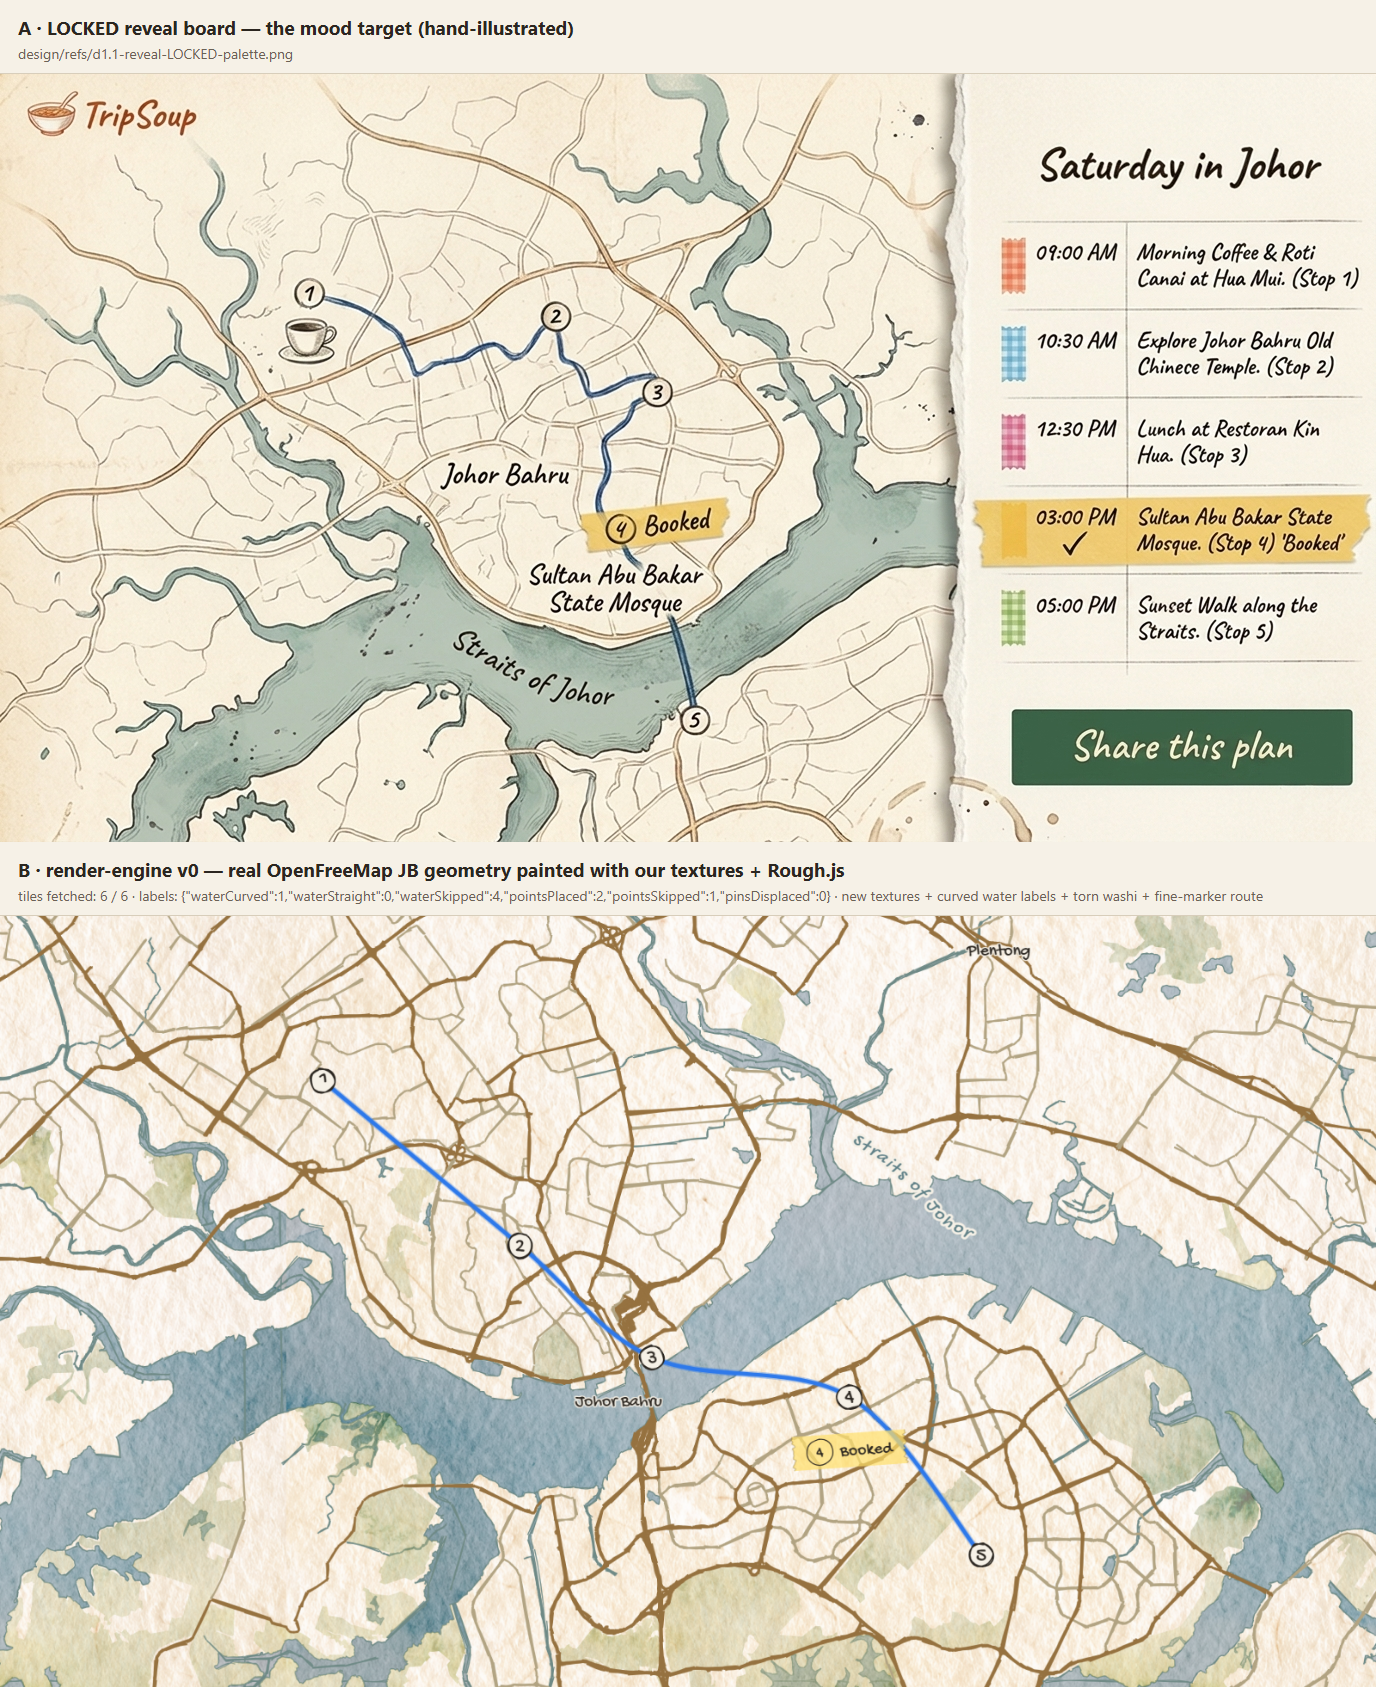
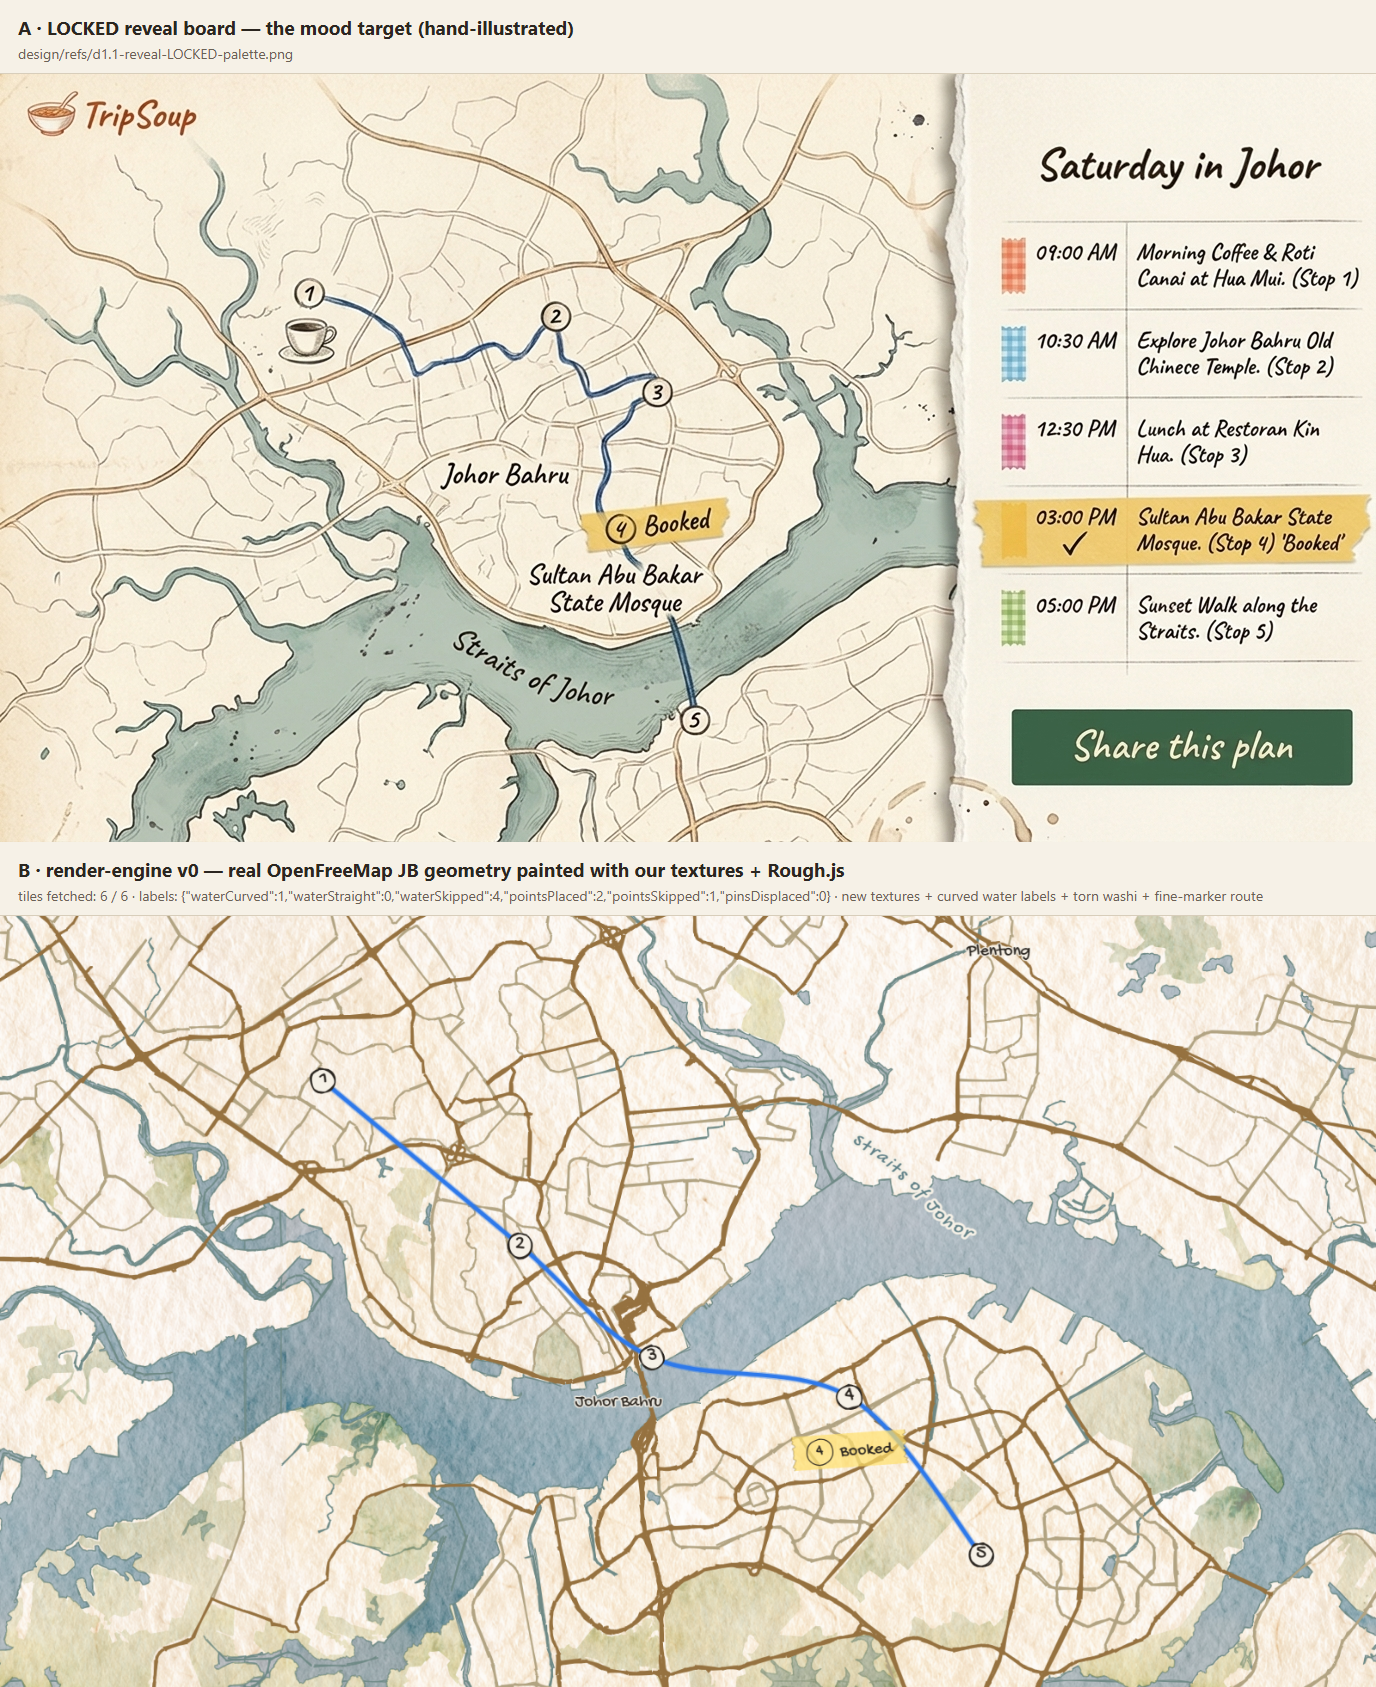
Post-launch polish: testing timer + reveal art iteration
Chris testing the live product with real AWS/Anthropic keys. Two threads,
all gates green (tsc · jest 119/119 · Playwright 26/26 · build):

Testing timer (his ask — "set a timer so I can monitor during testing"):
- usePipeline stamps ts-cook-t0 at submit
- LoadingView counts up live ("cooking · 2.3s")
- RevealMap shows "ready in X.Xs" + logs the full paste→map total

Reveal art (his three notes, every direction his AskUserQuestion call):
- Route floated off-road → denser roads: minor/service grid painted UNDER
  the arterials so the GrabMaps pen sits on drawn streets (board-faithful)
- Sidebar tape didn't read as tape → gingham weave + translucency +
  paper-lift + portrait tape-strip handles; booked stays solid yellow
- Scale not harmonious → ROOT CAUSE: globals.css `main{max-width:880}` (a
  legacy narrow-page rule) capped the reveal main, so the 1360 board never
  had room. Fixed with maxWidth:none on the reveal main. Plus grid 65/35
  map-dominant, width:100% (fr tracks were shrink-wrapping to the canvas),
  align-items:stretch, computeView aspect floor 0.72, Share pinned to foot.

Refs: design/refs/d2.3-map-engine-vs-board.png refreshed.
Deferred: fold AWS "verified live" into routeGeometry.ts + LIVE-CHECKLIST §8.

Claude-Session: https://claude.ai/code/session_01FzM6Qgs9SU9u1m1GaUgJuR

diff --git a/src/ui/reveal/RevealMap.tsx b/src/ui/reveal/RevealMap.tsx
@@ -80,6 +80,20 @@ function computeView(stops: RevealStop[]) {
   const padY = (N - S) * 0.22; // extra vertical room: the washi tag hangs below its pin
   const VIEW_BBOX = { W: W - padX, E: E + padX, N: N + padY, S: S - padY };
 
+  // Aspect floor (2026-07-07): a compact trip crops letterbox-short, which
+  // reads as a tiny map beside a tall sidebar. Grow the N/S window until the
+  // crop is at least this tall relative to its width, so the map fills the
+  // board column (Chris's "scale not harmonious" note). Near the equator the
+  // lat/lon ratio ≈ the projected aspect, so we expand in plain degrees.
+  const TARGET_ASPECT = 0.72; // height / width
+  const lonW = VIEW_BBOX.E - VIEW_BBOX.W;
+  const latH = VIEW_BBOX.N - VIEW_BBOX.S;
+  if (latH / lonW < TARGET_ASPECT) {
+    const grow = (TARGET_ASPECT * lonW - latH) / 2;
+    VIEW_BBOX.N += grow;
+    VIEW_BBOX.S -= grow;
+  }
+
   const lonSpan = VIEW_BBOX.E - VIEW_BBOX.W;
   // cropWpx = lonSpan/360 * 2^Z * TILEPX → solve for Z near the 1150px target
   const Z = Math.max(9, Math.min(14, Math.round(Math.log2((1150 * 360) / (lonSpan * 1024)))));
@@ -133,6 +147,7 @@ export function RevealMap({
   const [cloudsGone, setCloudsGone] = useState(false);
   const [muted, setMuted] = useState(false);
   const [reducedMotion, setReducedMotion] = useState(false);
+  const [cookMs, setCookMs] = useState<number | null>(null); // testing timer: full paste→map total
 
   const view = useMemo(() => computeView(stops), [stops]);
   const aspect = view.aspect;
@@ -141,6 +156,23 @@ export function RevealMap({
   // Bound the module-level decode cache to this reveal's lifetime (review
   // finding: it otherwise accumulates per-view geometry across navigations).
   useEffect(() => () => MapRenderCore.clearDecodeCache(), []);
+
+  // Testing timer: on first ready, report the full paste→map total that
+  // usePipeline stamped at submit. Only shows when this reveal came from a
+  // fresh cook (a direct /trip/[id] load has no stamp → no badge).
+  useEffect(() => {
+    if (phase !== "ready" || cookMs !== null) return;
+    try {
+      const s = Number(sessionStorage.getItem("ts-cook-t0"));
+      if (s) {
+        const total = (Date.now() - s) / 1000;
+        setCookMs(total);
+        // eslint-disable-next-line no-console
+        console.log(`[tripsoup] paste → map ready in ${total.toFixed(2)}s`);
+        sessionStorage.removeItem("ts-cook-t0"); // a reload shouldn't reshow a stale number
+      }
+    } catch { /* storage off */ }
+  }, [phase, cookMs]);
 
   // §2.10 sound rules: default ON, persisted, never before the first gesture.
   useEffect(() => {
@@ -563,6 +595,26 @@ export function RevealMap({
               <div style={cloudPuff("-12%", "8%", "68%")} />
               <div style={cloudPuff("28%", "-14%", "76%")} />
               <div style={cloudPuff("58%", "16%", "70%")} />
+            </div>
+          )}
+          {phase === "ready" && cookMs != null && (
+            <div
+              data-testid="reveal-timer"
+              style={{
+                position: "absolute",
+                top: 10,
+                left: 10,
+                fontFamily: "var(--font-display)",
+                fontSize: 13,
+                color: "var(--ink-soft)",
+                background: "var(--paper)",
+                border: "1px solid var(--ink-soft)",
+                borderRadius: 4,
+                padding: "2px 8px",
+                opacity: 0.9,
+              }}
+            >
+              ready in {cookMs.toFixed(1)}s
             </div>
           )}
           {phase === "ready" && (

diff --git a/src/ui/reveal/reveal.css b/src/ui/reveal/reveal.css
@@ -23,16 +23,22 @@
 .reveal-layout {
   display: grid;
   grid-template-columns: 1fr;
-  gap: 24px;
-  align-items: start;
+  gap: 26px;
+  align-items: stretch; /* map + sidebar form one board of equal height */
+  width: 100%; /* make the grid width DEFINITE — without this the fr tracks
+   * resolve against the canvas's intrinsic pixel width and the whole board
+   * shrink-wraps to ~830px instead of filling the 1360 frame. */
 }
 @media (min-width: 900px) {
   .reveal-layout {
-    grid-template-columns: 62fr 38fr;
+    grid-template-columns: 65fr 35fr; /* map dominant, like the board */
   }
 }
 .reveal-layout__map {
-  min-width: 0; /* grid item shrink guard so the canvas can size down */
+  min-width: 0; /* grid item shrink guard: without this the canvas's intrinsic
+   * pixel width wins the grid track sizing and the map renders small. Keep it
+   * a plain block (NOT flex — a flex parent re-introduces the shrink-to-canvas
+   * bug) so the width:100% map fills its 65% column. */
 }
 
 /* JournalSidebar ---------------------------------------------------------
@@ -43,6 +49,8 @@
  */
 .reveal-sidebar {
   position: relative;
+  display: flex;
+  flex-direction: column;
   background: var(--paper-shade);
   box-shadow: var(--shadow-paper-lift);
   min-width: 0;
@@ -71,9 +79,16 @@
 }
 .reveal-sidebar__scroll {
   position: relative;
-  max-height: 80vh;
+  flex: 1 1 auto;
+  min-height: 0; /* let the inner list scroll instead of stretching the board */
   overflow-y: auto;
+  display: flex;
+  flex-direction: column;
   padding: 22px 20px 22px 28px;
+}
+/* push the Share button to the foot of the torn page (board composition) */
+.reveal-share {
+  margin-top: auto;
 }
 .reveal-sidebar__heading {
   font-family: var(--font-display);
@@ -100,9 +115,18 @@
 }
 .reveal-row__handle {
   flex: 0 0 auto;
+  align-self: center;
   min-width: 30px;
   text-align: center;
   white-space: nowrap;
+}
+/* Empty (non-booked) handles are portrait tape strips, like the board's
+ * row-tab tape; the booked handle keeps its "✓ Booked" content width. */
+.reveal-row__handle:empty {
+  min-width: 0;
+  width: 17px;
+  height: 40px;
+  padding: 0;
 }
 .reveal-row__body {
   flex: 1 1 auto;

diff --git a/src/lib/map/map-render-core.js b/src/lib/map/map-render-core.js
@@ -234,6 +234,7 @@ function deriveSizes(C, K) {
     K,
     coast: s(C.WIDTHS.coast), waterway: s(C.WIDTHS.waterway),
     roadMajor: s(C.WIDTHS.roadMajor), roadSecondary: s(C.WIDTHS.roadSecondary),
+    roadMinor: s(C.WIDTHS.roadMinor != null ? C.WIDTHS.roadMinor : 0.9),
     washiEdge: s(C.WIDTHS.washiStroke != null ? C.WIDTHS.washiStroke : 1.1),
     routeWidth: s(C.ROUTE_WIDTH), routeBleed: s(C.ROUTE_WIDTH + C.ROUTE_BLEED_EXTRA),
     pinDiam: s(C.PIN.diameter), pinStroke: s(C.PIN.strokeWidth),
@@ -1173,22 +1174,30 @@ export async function buildScene(rawConfig, decoded, textures, opts = {}) {
   ctx.fillRect(0, 0, CANVAS_W, CANVAS_H);
   ctx.restore();
 
-  // 4. roads — sparse arterials only
+  // 4. roads — arterials + (optional) a lighter residential grid so the
+  //    road-following pen sits on a drawn street network. MINOR is painted
+  //    FIRST (underneath) so arterials and the route read on top of it.
   const MAJOR = new Set(config.ROAD_CLASSES_MAJOR);
   const SECONDARY = new Set(config.ROAD_CLASSES_SECONDARY);
-  for (const f of layers.transportation) {
-    const cls = f.props['class'];
-    const isMajor = MAJOR.has(cls), isSecondary = SECONDARY.has(cls);
-    if (!isMajor && !isSecondary) continue;
-    const opts = isMajor
-      ? { stroke: config.COLORS.roadMajor, strokeWidth: D.roadMajor, roughness: config.ROUGHNESS.road }
-      : { stroke: config.COLORS.roadSecondary, strokeWidth: D.roadSecondary, roughness: config.ROUGHNESS.road };
-    for (const ring of f.geom) {
-      if (ring.length < 2) continue;
-      const pts = ring.map((pt) => [px(grid, f.tx, pt.x, f.ext), py(grid, f.ty, pt.y, f.ext)]);
-      rc.linearPath(pts, { ...opts, seed: featureSeed(config, fIdx++) });
+  const MINOR = new Set(config.ROAD_CLASSES_MINOR || []);
+  const paintRoads = (classSet, opts) => {
+    for (const f of layers.transportation) {
+      if (!classSet.has(f.props['class'])) continue;
+      for (const ring of f.geom) {
+        if (ring.length < 2) continue;
+        const pts = ring.map((pt) => [px(grid, f.tx, pt.x, f.ext), py(grid, f.ty, pt.y, f.ext)]);
+        rc.linearPath(pts, { ...opts, seed: featureSeed(config, fIdx++) });
+      }
     }
+  };
+  if (MINOR.size) {
+    paintRoads(MINOR, {
+      stroke: config.COLORS.roadMinor || config.COLORS.roadSecondary,
+      strokeWidth: D.roadMinor, roughness: config.ROUGHNESS.road,
+    });
   }
+  paintRoads(SECONDARY, { stroke: config.COLORS.roadSecondary, strokeWidth: D.roadSecondary, roughness: config.ROUGHNESS.road });
+  paintRoads(MAJOR, { stroke: config.COLORS.roadMajor, strokeWidth: D.roadMajor, roughness: config.ROUGHNESS.road });
 
   // 5a. pre-compute route/pin/washi geometry so the label passes can treat
   //     pins + washi + the pen line as occupied regions. The overlay itself

diff --git a/src/ui/pipeline/LoadingView.tsx b/src/ui/pipeline/LoadingView.tsx
@@ -4,6 +4,7 @@
 // through her scenes IN STEP with real backend stages, and progress reads as a
 // soup pot filling — never a generic percentage bar or spinner. On failure she
 // freezes in her "this is fine" pose beside a legible error and a retry button.
+import { useEffect, useState } from "react";
 import type { PipelineStage } from "@/lib/pipeline/pipeline";
 import type { GracieSceneName } from "@/ui/journal/GracieScene";
 import { GracieScene } from "@/ui/journal/GracieScene";
@@ -26,6 +27,21 @@ export function LoadingView({
   state: PipelineState;
   onRetry: () => void;
 }) {
+  // Live cook timer (testing aid) — counts up from the moment the paste was
+  // submitted (usePipeline stamped ts-cook-t0), refreshing 10×/sec.
+  const [elapsed, setElapsed] = useState<number | null>(null);
+  useEffect(() => {
+    if (state.phase !== "running") return;
+    let t0 = Date.now();
+    try {
+      const s = Number(sessionStorage.getItem("ts-cook-t0"));
+      if (s) t0 = s;
+    } catch { /* storage off */ }
+    setElapsed((Date.now() - t0) / 1000);
+    const id = setInterval(() => setElapsed((Date.now() - t0) / 1000), 100);
+    return () => clearInterval(id);
+  }, [state.phase]);
+
   if (state.phase === "error") {
     return (
       <div className="pipeline-stage" data-testid="pipeline-error">
@@ -65,6 +81,12 @@ export function LoadingView({
       <p className="pipeline-detail" data-testid="pipeline-detail">
         {detail}
       </p>
+
+      {elapsed != null && (
+        <p className="pipeline-timer" data-testid="pipeline-timer">
+          cooking · {elapsed.toFixed(1)}s
+        </p>
+      )}
     </div>
   );
 }

diff --git a/src/ui/journal/journal.css b/src/ui/journal/journal.css
@@ -103,19 +103,36 @@ textarea.journal-input {
  */
 .journal-washi-tag {
   display: inline-block;
+  position: relative;
   font-family: var(--font-body), system-ui, sans-serif;
   font-size: 0.85rem;
   font-weight: 700;
   color: var(--ink);
   padding: 2px 10px;
-  border-radius: 2px;
   line-height: 1.5;
+  /* 2026-07-07 — read as real washi tape, not a flat chip (Chris's "doesn't
+   * look like tape" note, board = design/refs/d1.1-reveal-LOCKED-palette.png):
+   * slightly translucent so the paper shows through, a soft paper-lift so it
+   * sits ON the page, near-square corners. Gingham weave + tilt add the rest. */
+  opacity: 0.9;
+  border-radius: 1px;
+  box-shadow: 0 1px 2px rgba(43, 38, 32, 0.2);
 }
 .journal-washi-tag--washi { background: var(--washi); }
 .journal-washi-tag--coral { background: var(--washi-coral); }
 .journal-washi-tag--sky { background: var(--washi-sky); }
 .journal-washi-tag--pink { background: var(--washi-pink); }
 .journal-washi-tag--leaf { background: var(--washi-leaf); }
+/* gingham weave on the decorative tapes (the board's row-tab check); the
+ * yellow booked tape (--washi) stays solid, matching the board's highlight. */
+.journal-washi-tag--coral,
+.journal-washi-tag--sky,
+.journal-washi-tag--pink,
+.journal-washi-tag--leaf {
+  background-image:
+    repeating-linear-gradient(0deg, rgba(255, 255, 255, 0.32) 0 3px, transparent 3px 6px),
+    repeating-linear-gradient(90deg, rgba(255, 255, 255, 0.32) 0 3px, transparent 3px 6px);
+}
 
 /* Interactive variant (D2.3 T6): WashiTag as="button", used as the reveal
  * sidebar's drag handle — resets native button chrome, adds a grab cursor,

diff --git a/app/trip/[id]/page.tsx b/app/trip/[id]/page.tsx
@@ -66,12 +66,16 @@ export default async function TripRevealPage({
 
   return (
     <main
-      style={{ background: "var(--paper)", minHeight: "100dvh", padding: "48px 24px 96px" }}
+      // maxWidth:"none" overrides globals.css's `main { max-width: 880px }`
+      // (a leftover from the narrow legacy pages) — the reveal is a wide board,
+      // and without this the inner 1360 frame was capped at 880 and the map
+      // rendered small (Chris's "scale not harmonious" note, 2026-07-07).
+      style={{ background: "var(--paper)", minHeight: "100dvh", padding: "24px 24px 36px", maxWidth: "none" }}
       data-testid="trip-reveal"
     >
-      <div style={{ maxWidth: 1100, margin: "0 auto" }}>
-        <div style={{ display: "flex", alignItems: "flex-end", gap: 16, marginBottom: 8 }}>
-          <GracieScene name="soup-stir" size={96} paused data-testid="trip-reveal-gracie" />
+      <div style={{ maxWidth: 1360, margin: "0 auto" }}>
+        <div style={{ display: "flex", alignItems: "flex-end", gap: 14, marginBottom: 6 }}>
+          <GracieScene name="soup-stir" size={64} paused data-testid="trip-reveal-gracie" />
           <div>
             <h1
               style={{
@@ -79,7 +83,7 @@ export default async function TripRevealPage({
                 fontWeight: 400,
                 color: "var(--ink)",
                 margin: 0,
-                fontSize: "2rem",
+                fontSize: "1.6rem",
               }}
               data-testid="trip-reveal-heading"
             >
@@ -99,7 +103,7 @@ export default async function TripRevealPage({
 
         <SketchDivider />
 
-        <div style={{ marginTop: 20 }}>
+        <div style={{ marginTop: 14 }}>
           <RevealClient initialDoc={doc} initialPlans={plans} />
         </div>
       </div>

diff --git a/src/ui/pipeline/pipeline.css b/src/ui/pipeline/pipeline.css
@@ -54,3 +54,12 @@
 .pipeline-detail--error {
   color: var(--danger);
 }
+
+/* Testing timer — live cook elapsed under the progress detail. */
+.pipeline-timer {
+  margin-top: 6px;
+  font-family: var(--font-body);
+  font-size: 0.85rem;
+  color: var(--ink-soft);
+  font-variant-numeric: tabular-nums;
+}

diff --git a/src/ui/pipeline/usePipeline.ts b/src/ui/pipeline/usePipeline.ts
@@ -44,6 +44,10 @@ export function usePipeline(): {
   const run = useCallback(async (text: string) => {
     if (runningRef.current) return;
     runningRef.current = true;
+    // Testing timer: stamp the moment the cook starts so the loading view can
+    // count up live and the reveal can show the full paste→map total (it
+    // survives the client-side nav to /trip/[id] via sessionStorage).
+    try { sessionStorage.setItem("ts-cook-t0", String(Date.now())); } catch { /* SSR / storage off */ }
     setState({ phase: "running", stage: "parse", pct: 0, detail: "Reading your links…" });
 
     try {

diff --git a/STATE.md b/STATE.md
@@ -1102,3 +1102,41 @@ appended (post-merge live checks + the optional AWS key step) ✓.
 UNVERIFIED-by-design at merge time: AWS live response shape (checklist §8), live paste with
 ANTHROPIC key (checklist §7 / D2.4), Gracie art still provisional (Chris's own pass, D1
 proviso), sfx still placeholder foley.
+
+---
+
+## Post-launch polish (2026-07-07, on main — Chris testing the live product)
+
+**AWS road pen VERIFIED LIVE.** Chris added AWS_LOCATION_API_KEY + ANTHROPIC_API_KEY +
+PARSE_PROVIDER=llm to Vercel. Full prod audit (homepage / pipeline / route-geometry /
+headless reveal): all healthy, zero client errors; `/api/route-geometry` returns real
+GrabMaps polylines and the reveal paints `data-geometry="roads"` → the routeGeometry.ts
+LIVE-SHAPE NOTE (Routes[0].Legs[].Geometry.LineString) is CONFIRMED correct against the real
+geo-routes v2 API. A "seems broken" scare after the key-add was not reproducible on any
+surface — most likely the Vercel redeploy window.
+
+**Testing timer** (committed): usePipeline stamps `ts-cook-t0` at submit; LoadingView counts
+up live ("cooking · 2.3s"); RevealMap shows "ready in X.Xs" + logs the full paste→map total.
+
+**Reveal art iteration** (Chris's three notes with real data in front of him, all directions
+his call via AskUserQuestion):
+1. **Route not on roads → denser roads.** GrabMaps' full network ≠ our sparse arterials, so
+   the pen floated. Added a residential/minor grid (`ROAD_CLASSES_MINOR: [minor, service]`,
+   light tan `#c9bda1`, thin 0.9, painted UNDER the arterials) so the road-following pen sits
+   on drawn streets — board-faithful density. Bench-verified.
+2. **Sidebar tape didn't look like tape → gingham.** journal.css WashiTag now reads as real
+   washi: gingham weave on the decorative tones, translucency, paper-lift, portrait tape-strip
+   shape for the empty drag handles; booked stays solid yellow.
+3. **Scale not harmonious → full-frame board + ROOT-CAUSE FIX.** The map rendered small in a
+   sea of empty space because **globals.css `main { max-width: 880px }` (a legacy narrow-page
+   rule) was capping the reveal main at 880px** — the inner 1360 frame never had room (this
+   also explains why prod looked small all along). Fixed with `maxWidth:"none"` on the reveal
+   main. Plus: grid 65/35 map-dominant with `width:100%` (fr tracks were shrink-wrapping to the
+   canvas's intrinsic width → 832px board), `align-items:stretch` so map+sidebar are one board,
+   aspect floor 0.72 so a compact trip's crop isn't letterbox-short, Share pinned to the foot,
+   compacted header. Desktop probe confirms layout 1360 / map 867.
+
+**Gates:** tsc clean · jest 119/119 · Playwright 26/26 · build clean · desktop visual vs board
+(`design/refs/d2.3-map-engine-vs-board.png` refreshed). **Deploy: awaiting Chris's `git push`**
+(direct prod push is gated). **Deferred doc:** fold the AWS "verified" status into the
+routeGeometry.ts comment + LIVE-CHECKLIST §8 on a later commit.